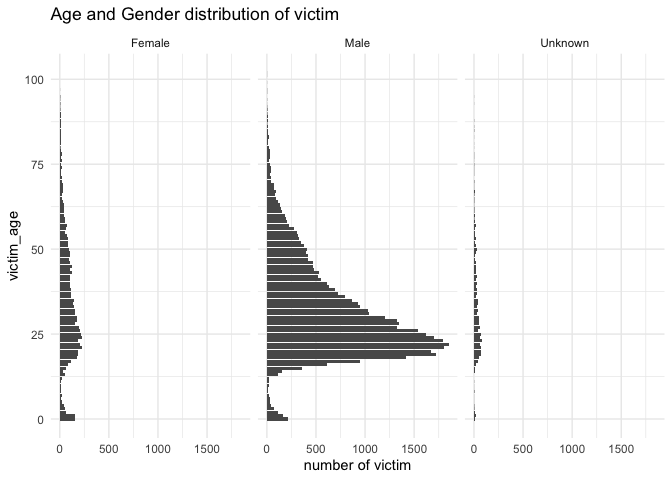
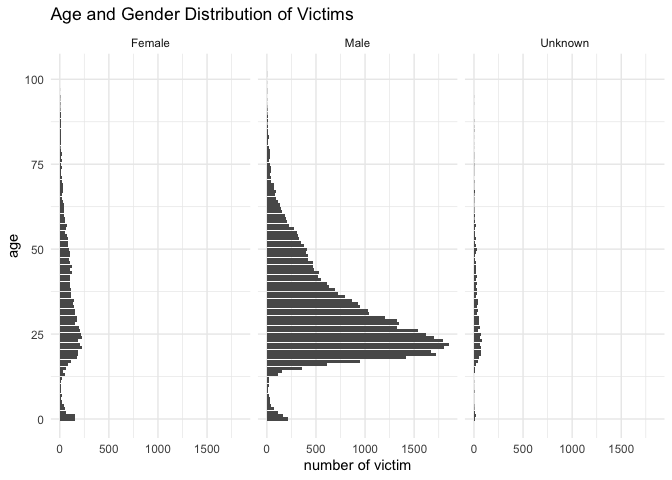
finish problem 3

Changed region(s): [[0.2812, 0.0, 0.5312, 0.0625], [0.0, 0.4375, 0.0312, 0.5938]]

diff --git a/p8105_hw5_ry2417.md b/p8105_hw5_ry2417.md
@@ -13,9 +13,9 @@ and gender of victim shown here:
 
 ![](p8105_hw5_ry2417_files/figure-gfm/age_gender_distribution-1.png)<!-- -->
 
-The table summarizes within cities to obtain the total number of
-homicides and the number of unsolved homicides (those for which the
-disposition is “Closed without arrest” or “Open/No arrest”)
+summarizes within cities to obtain the total number of homicides and the
+number of unsolved homicides (those for which the disposition is “Closed
+without arrest” or “Open/No arrest”)
 
 | city\_state        | num\_homicide | num\_unsolved |
 |:-------------------|--------------:|--------------:|
@@ -87,19 +87,13 @@ Some examples of the resulted data frame shown as
 | con | 01  | 8    |         1.94 |
 | con | 02  | 1    |         1.13 |
 | con | 02  | 2    |        -0.88 |
-| con | 02  | 3    |         1.07 |
-| con | 02  | 4    |         0.17 |
-| con | 02  | 5    |        -0.83 |
-| con | 02  | 6    |        -0.31 |
-| con | 02  | 7    |         1.58 |
-| con | 02  | 8    |         0.44 |
-| con | 03  | 1    |         1.77 |
-| con | 03  | 2    |         3.11 |
-| con | 03  | 3    |         2.22 |
-| con | 03  | 4    |         3.26 |
+
+A spaghetti plot showing observations on each subject over time
 
 ![](p8105_hw5_ry2417_files/figure-gfm/unnamed-chunk-5-1.png)<!-- -->
 
 The observations of experimental arm is increasingly higher than the
 observations of control arm over time. The difference of observations
-between control arm and experimental arm increases over time.
+between control arm and experimental arm increases over time.  
+
+## 
